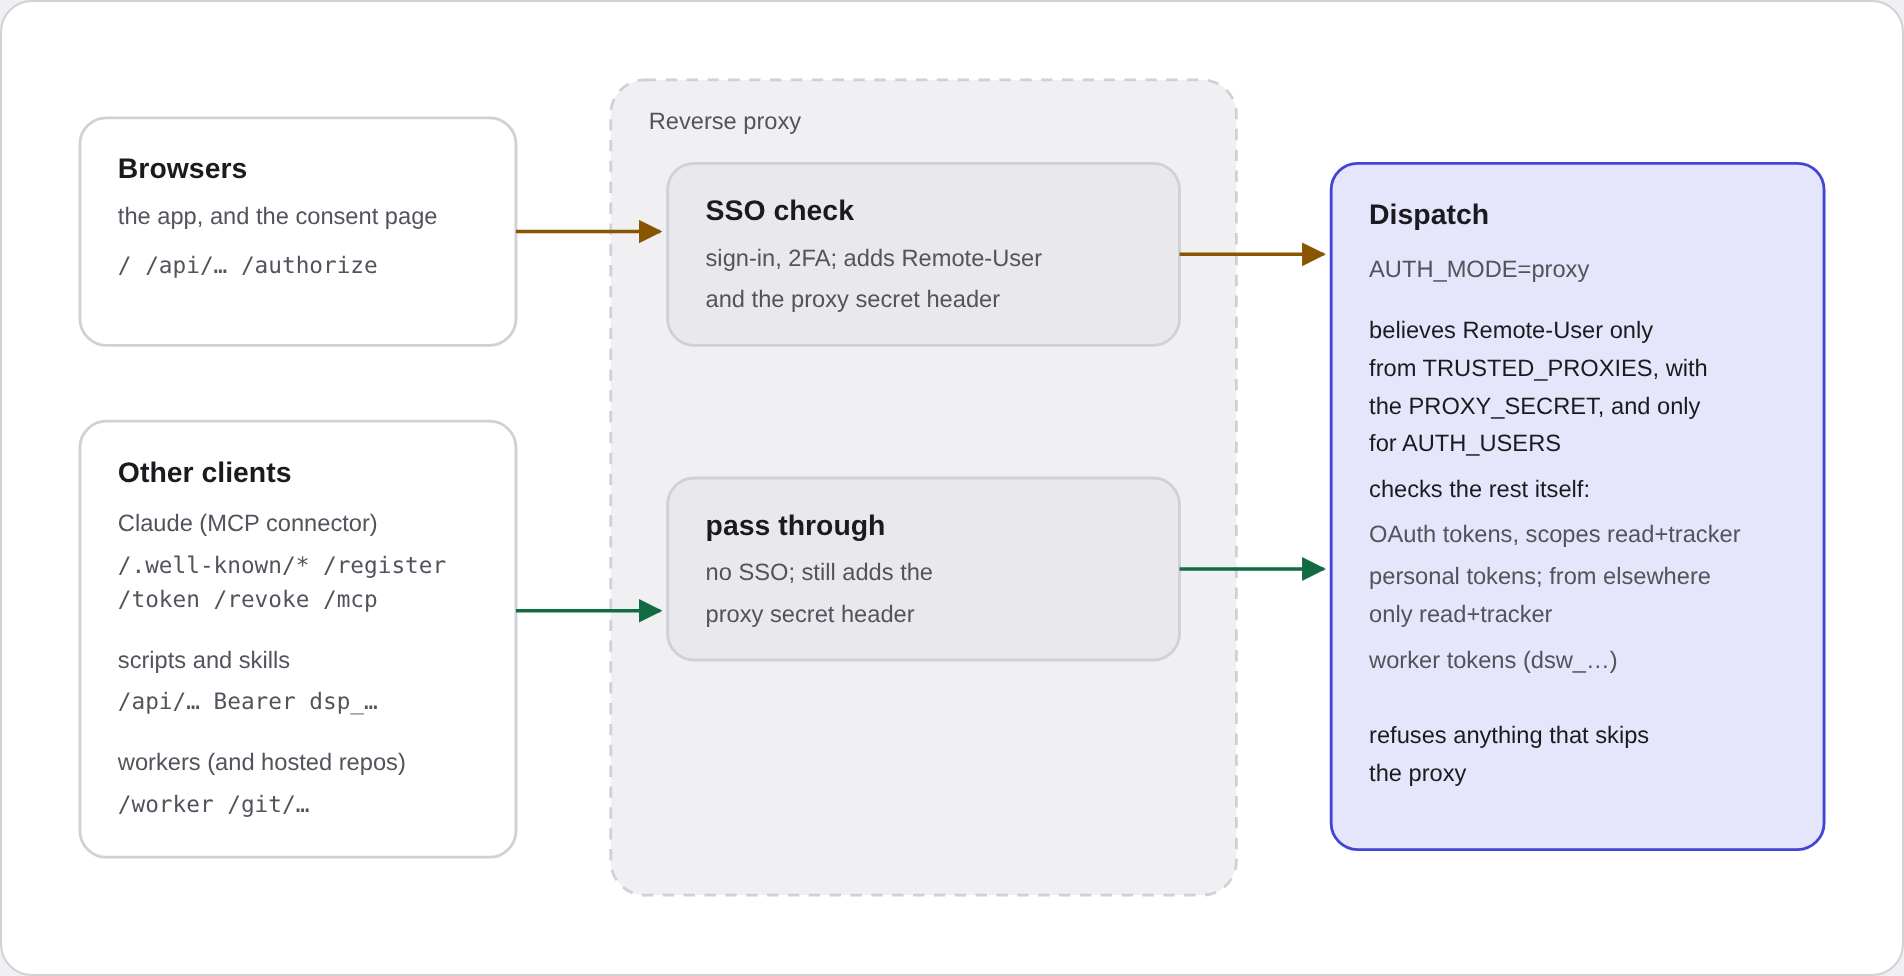
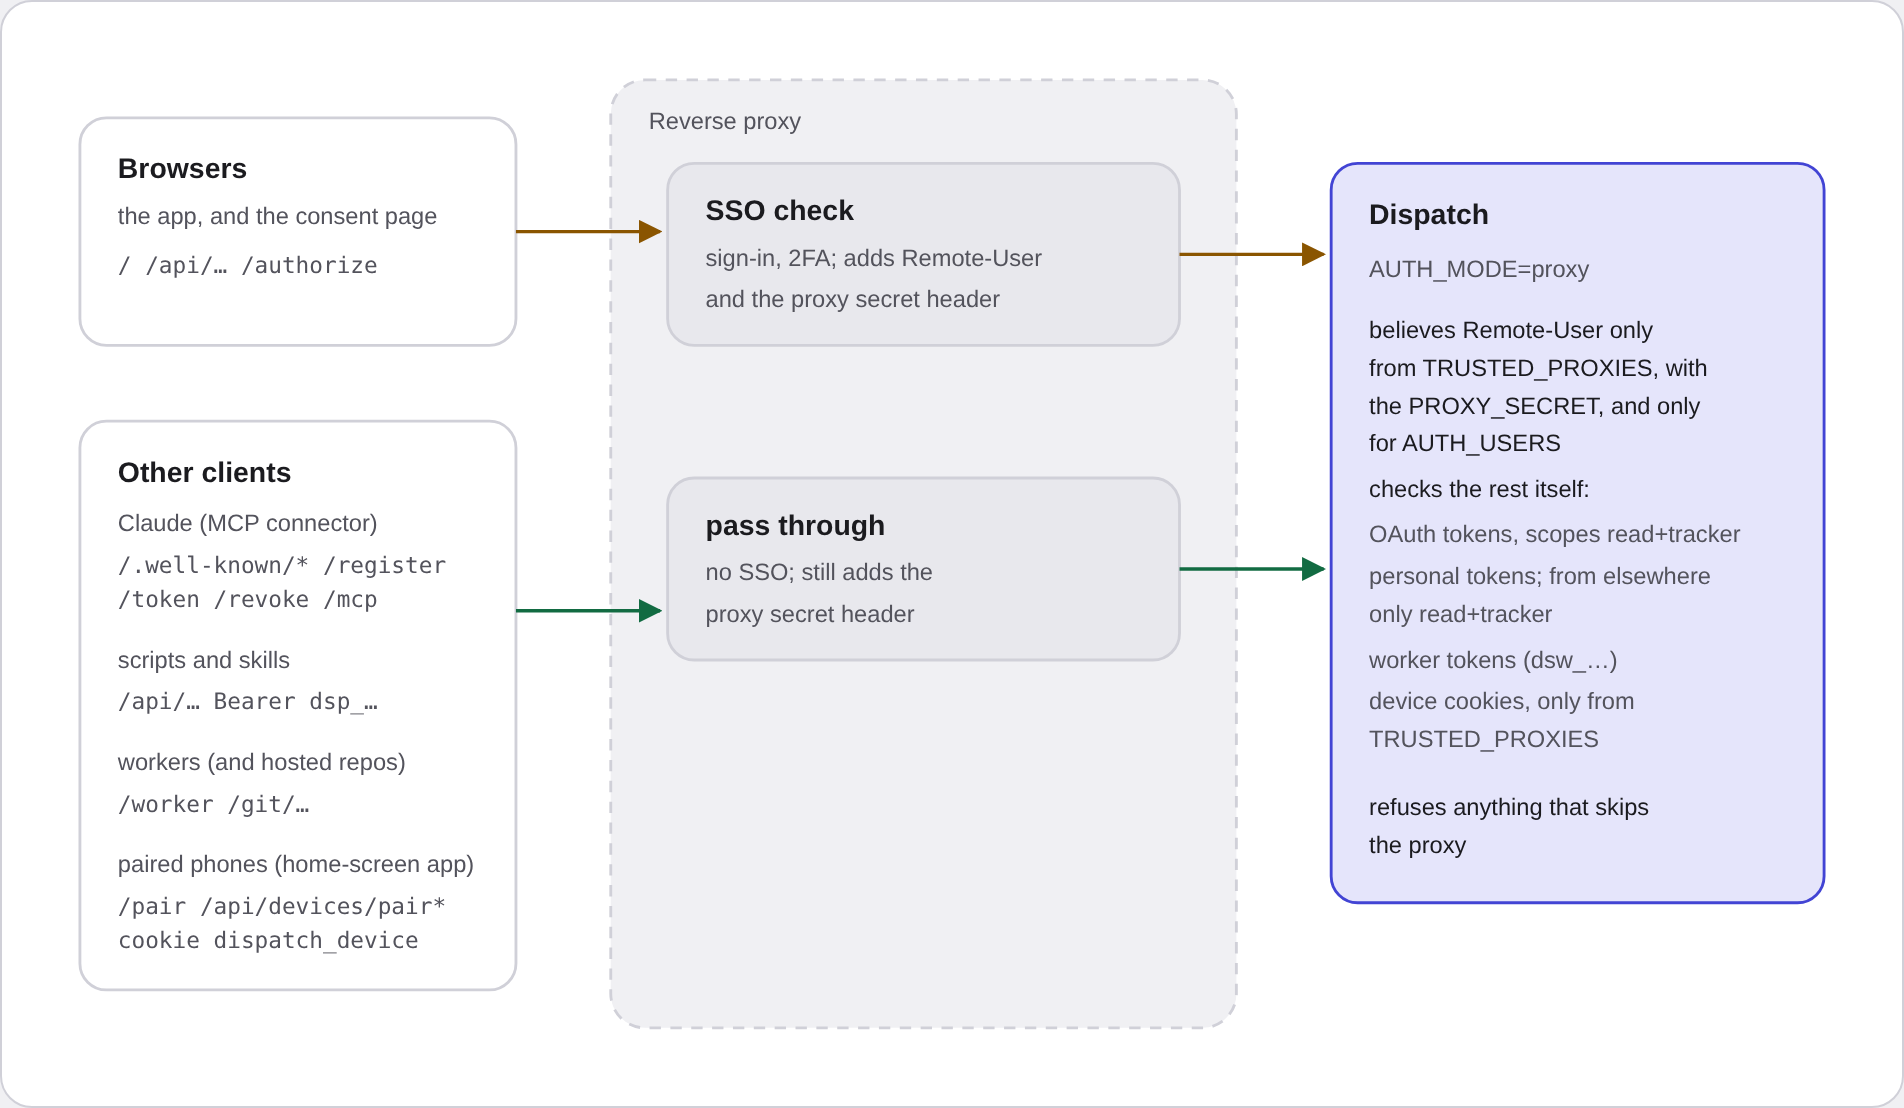
docs: pairing paths in the sign-in proxy illustration
Paired phones go around the SSO check: /pair, /api/devices/pair* and requests with the
dispatch_device cookie. Dispatch believes the cookie only from TRUSTED_PROXIES.

Claude-Session: https://claude.ai/code/session_018vL8eftkRkk3MxyeoWs17N

diff --git a/docs/illustrations/proxy-routes.html b/docs/illustrations/proxy-routes.html
@@ -5,7 +5,7 @@
 <h1>Behind a sign-in proxy (SSO)</h1>
 <p class="lead">With <code>AUTH_MODE=proxy</code>, people sign in at the proxy (for example Authelia), which tells Dispatch who they are. Clients that are not browsers cannot do that sign-in, so their paths go <em>around</em> it, and Dispatch checks them itself.</p>
 <figure>
-<svg viewBox="0 0 960 470" role="img" aria-label="Browser traffic and the consent page go through the SSO check. OAuth, MCP, personal-token API calls and the worker socket go around it. Dispatch checks each of them, and only believes the user header from the proxy with its secret.">
+<svg viewBox="0 0 960 540" role="img" aria-label="Browser traffic and the consent page go through the SSO check. OAuth, MCP, personal-token API calls, the worker socket and paired phones go around it. Dispatch checks each of them, and only believes the user header from the proxy with its secret.">
   <defs>
     <marker id="a" viewBox="0 0 10 10" refX="9" refY="5" markerWidth="7" markerHeight="7" orient="auto-start-reverse"><path d="M0 0L10 5L0 10z" style="fill:var(--muted)"/></marker>
     <marker id="c" viewBox="0 0 10 10" refX="9" refY="5" markerWidth="7" markerHeight="7" orient="auto-start-reverse"><path d="M0 0L10 5L0 10z" style="fill:var(--ok)"/></marker>
@@ -16,7 +16,7 @@
   <text class="h" x="40" y="72">Browsers</text>
   <text class="s muted" x="40" y="96">the app, and the consent page</text>
   <text class="mono muted" x="40" y="122">/  /api/…  /authorize</text>
-  <rect class="box" x="20" y="200" width="230" height="230" rx="14"/>
+  <rect class="box" x="20" y="200" width="230" height="300" rx="14"/>
   <text class="h" x="40" y="232">Other clients</text>
   <text class="s muted" x="40" y="258">Claude (MCP connector)</text>
   <text class="mono muted" x="40" y="280">/.well-known/* /register</text>
@@ -25,8 +25,11 @@
   <text class="mono muted" x="40" y="352">/api/… Bearer dsp_…</text>
   <text class="s muted" x="40" y="384">workers (and hosted repos)</text>
   <text class="mono muted" x="40" y="406">/worker  /git/…</text>
+  <text class="s muted" x="40" y="438">paired phones (home-screen app)</text>
+  <text class="mono muted" x="40" y="460">/pair  /api/devices/pair*</text>
+  <text class="mono muted" x="40" y="478">cookie dispatch_device</text>
   <!-- proxy -->
-  <rect class="zone" x="300" y="20" width="330" height="430" rx="18"/>
+  <rect class="zone" x="300" y="20" width="330" height="500" rx="18"/>
   <text class="s muted" x="320" y="46">Reverse proxy</text>
   <rect class="ext" x="330" y="64" width="270" height="96" rx="14"/>
   <text class="h" x="350" y="94">SSO check</text>
@@ -39,7 +42,7 @@
   <path class="arrow wait" d="M250 100 H326"/>
   <path class="arrow ok" d="M250 300 H326"/>
   <!-- dispatch -->
-  <rect class="accent" x="680" y="64" width="260" height="362" rx="14"/>
+  <rect class="accent" x="680" y="64" width="260" height="390" rx="14"/>
   <text class="h" x="700" y="96">Dispatch</text>
   <text class="s muted" x="700" y="124">AUTH_MODE=proxy</text>
   <text class="s" x="700" y="156">believes Remote-User only</text>
@@ -51,14 +54,17 @@
   <text class="s muted" x="700" y="286">personal tokens; from elsewhere</text>
   <text class="s muted" x="700" y="306">only read+tracker</text>
   <text class="s muted" x="700" y="330">worker tokens (dsw_…)</text>
-  <text class="s" x="700" y="370">refuses anything that skips</text>
-  <text class="s" x="700" y="390">the proxy</text>
+  <text class="s muted" x="700" y="352">device cookies, only from</text>
+  <text class="s muted" x="700" y="372">TRUSTED_PROXIES</text>
+  <text class="s" x="700" y="408">refuses anything that skips</text>
+  <text class="s" x="700" y="428">the proxy</text>
   <path class="arrow wait" d="M600 112 H676"/>
   <path class="arrow ok" d="M600 278 H676"/>
 </svg>
 </figure>
 <ul class="notes">
   <li>Without a proxy (password mode) none of this applies: the app has its own password sign-in; tokens and workers work the same.</li>
+  <li>Paired phones: only needed when the SSO cannot run in the home-screen app (see README → "Pair a phone with a code"). The app's static files load with <code>/pair</code>.</li>
   <li>The proxy secret matters when other programs share the proxy's address (containers on the same network).</li>
 </ul>
 </main></body></html>
